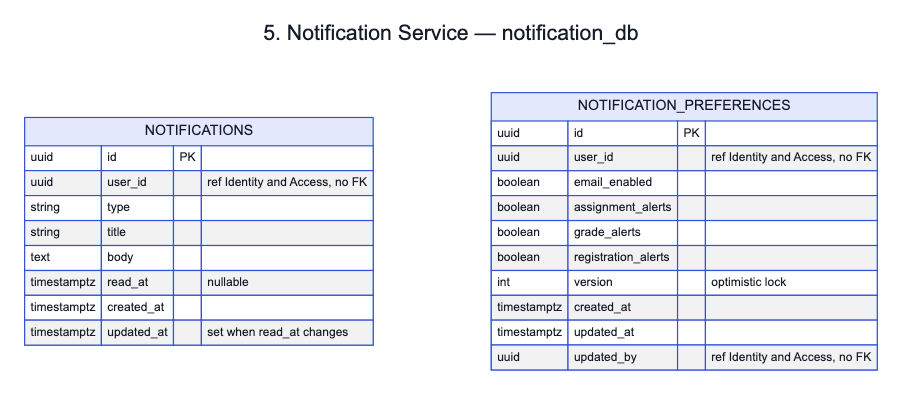
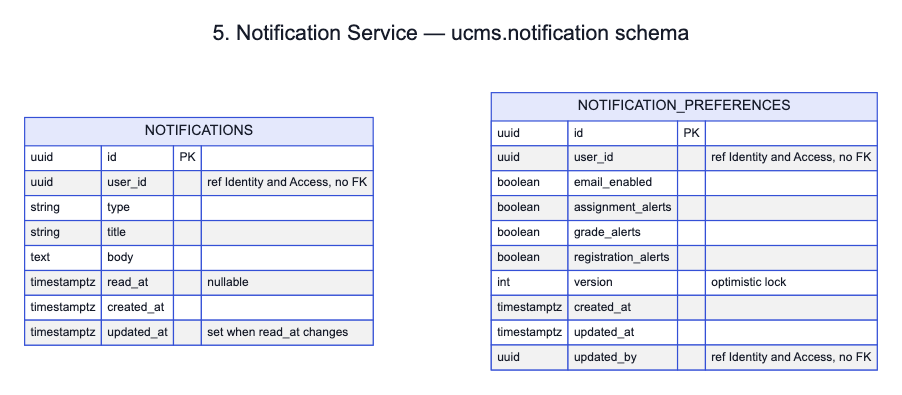
Sync architecture diagrams: schema-per-service, not database-per-service
Brings docs/architecture/ in line with the updated source diagrams
(architecture_v2/microservices-architecture.png) and the b2f7228 codebase
change: microservices-architecture.mmd now shows one shared PostgreSQL
instance/database (ucms) with a schema cylinder per service (color-coded,
no forced subgraph clustering — that produced a tangled layout, same
class of issue documented in README.md's regenerating notes) instead of
7 separate database cylinders. high-level-architecture.mmd's data-layer
label updated to match. All 7 ER diagram titles now read
"ucms.<schema> schema" instead of "<name>_db". DATA_GOVERNANCE.md's FK
rule section reframed around schema boundaries and schema-scoped
database roles instead of separate databases.

Changed region(s): [[0.2173, 0.0608, 0.7761, 0.1215]]

diff --git a/docs/architecture/README.md b/docs/architecture/README.md
@@ -14,11 +14,11 @@ the more reliable way to make each piece identifiable at a glance:
 | File | Shows |
 |---|---|
 | `high-level-architecture.mmd` / `.png` | Client → Gateway → services layer → data layer → async backbone → delivery pipeline (container view) |
-| `microservices-architecture.mmd` / `.png` | All 7 services, their databases, and the actual calls between them — solid = synchronous REST, dotted = async event via the message broker (component view) |
+| `microservices-architecture.mmd` / `.png` | All 7 services, their schemas (one shared PostgreSQL instance and database — `ucms` — with a schema per service), and the actual calls between them — solid = synchronous REST, dotted = async event via the message broker (component view) |
 
-## 2. Service-level (what each service's database actually contains)
+## 2. Service-level (what each service's schema actually contains)
 
-One ER diagram per service — small enough that Mermaid lays each one out cleanly, and focused enough that "which table belongs to which service" is never in question. Every mutable table carries a standard audit block (`version`, `created_at`/`by`, `updated_at`/`by`, `deleted_at`/`by`) — see **`DATA_GOVERNANCE.md`** for the full standard, the optimistic-locking mechanics, and the deliberate exceptions (append-only logs and session data don't get versioned or soft-deleted, and the doc explains why).
+One ER diagram per service — small enough that Mermaid lays each one out cleanly, and focused enough that "which table belongs to which service" is never in question. Each service's tables live in their own PostgreSQL **schema** inside the one shared `ucms` database (not a separate database per service — see the note below and `DATA_GOVERNANCE.md`), with isolation enforced by giving each service its own database role scoped to its own schema. Every mutable table carries a standard audit block (`version`, `created_at`/`by`, `updated_at`/`by`, `deleted_at`/`by`) — see **`DATA_GOVERNANCE.md`** for the full standard, the optimistic-locking mechanics, and the deliberate exceptions (append-only logs and session data don't get versioned or soft-deleted, and the doc explains why).
 
 | File | Service | Tables |
 |---|---|---|
@@ -45,8 +45,10 @@ Sequence diagrams — each service gets its own vertical lane, and the arrows sh
 
 1. **Start with `microservices-architecture.png`** to see which services talk to which, and whether that call is synchronous or event-driven, as a static map.
 2. **Open the matching `flow-0N-*.png`** to see that same relationship play out as an actual sequence of calls for a real scenario — this is where "synchronous" and "asynchronous" stop being a line style and become a concrete order of events.
-3. **Open the matching `tables-0N-*.png`** to see exactly what each service in that flow stores — real primary keys, real foreign keys, and real relationships, but only *within* that service's own database.
-4. **A field like `lecturer_id "ref Identity and Access, no FK"`** is not a mistake — it's the point. Database-per-service means no table ever has a real foreign key into another service's database. Cross-service references are IDs resolved through that other service's API, never a SQL join — which is exactly what you see happening, call by call, in the flow diagrams.
+3. **Open the matching `tables-0N-*.png`** to see exactly what each service in that flow stores — real primary keys, real foreign keys, and real relationships, but only *within* that service's own schema.
+4. **A field like `lecturer_id "ref Identity and Access, no FK"`** is not a mistake — it's the point. Schema-per-service (one shared database, `ucms`, but a dedicated schema and database role per service) means no table ever has a real foreign key into another service's schema. Cross-service references are IDs resolved through that other service's API, never a SQL join — which is exactly what you see happening, call by call, in the flow diagrams.
+
+**Why one database with 7 schemas, not 7 databases:** the diagrams originally showed a separate database per service — functionally equivalent for the "no cross-service SQL join" invariant, but operationally heavier for this project's actual scale (one Postgres instance to run, back up, and monitor instead of seven). A schema boundary plus a schema-scoped database role gives the same isolation guarantee — a service's credentials simply have no grants outside its own schema — without the extra instances. Revisit if a service's data genuinely needs to scale or fail independently of the others.
 
 ## Regenerating
 

diff --git a/docs/architecture/DATA_GOVERNANCE.md b/docs/architecture/DATA_GOVERNANCE.md
@@ -60,11 +60,24 @@ dependent rows point at nothing.
 
 ## The `created_by` / `updated_by` FK rule
 
-This follows the same database-per-service rule as every other field in
-these diagrams (see the main `README.md`):
+This follows the same schema-per-service rule as every other field in
+these diagrams (see the main `README.md`): all 7 services share one
+PostgreSQL **instance** and **database** (`ucms`), but each one owns its
+own **schema**, and a real foreign key only ever exists within that same
+schema — never across schema boundaries, even though the tables are
+physically reachable in the same database:
 
-- **Inside the Identity & Access service** (`roles`, `permissions`, `role_permissions`, and `users` itself), `created_by` / `updated_by` / `deleted_by` are real, enforceable foreign keys to `users.id` — marked `FK` in the diagrams, because both tables live in the same `auth_db`.
-- **In every other service**, the same columns hold a `uuid` with no `FK` marker and a `"ref Identity and Access, no FK"` comment — the value is a user ID resolved through the Identity & Access API, not a database-level join, because that user lives in a different database entirely.
+- **Inside the Identity & Access service** (`roles`, `permissions`, `role_permissions`, and `users` itself), `created_by` / `updated_by` / `deleted_by` are real, enforceable foreign keys to `users.id` — marked `FK` in the diagrams, because both tables live in the same `identity_access` schema.
+- **In every other service**, the same columns hold a `uuid` with no `FK` marker and a `"ref Identity and Access, no FK"` comment — the value is a user ID resolved through the Identity & Access API, not a database-level join, because that user lives in a different schema, owned and queried by a different service.
+
+This isolation is enforced at the database role level, not just by
+convention: each service connects with its own PostgreSQL role, granted
+privileges on its own schema only (`GRANT ALL ON SCHEMA identity_access TO
+identity_access_svc`, and so on) — a service's connection simply cannot
+read or write another service's tables, even though nothing stops a
+human `psql` superuser from doing so. See
+[`infra/docker-compose.infra.yml`](../../infra/docker-compose.infra.yml)
+and `infra/init-schemas.sql` for the actual role/grant setup.
 
 `users.created_by` is a deliberate exception within that rule: it
 self-references `users.id` and is nullable, because the very first user in
